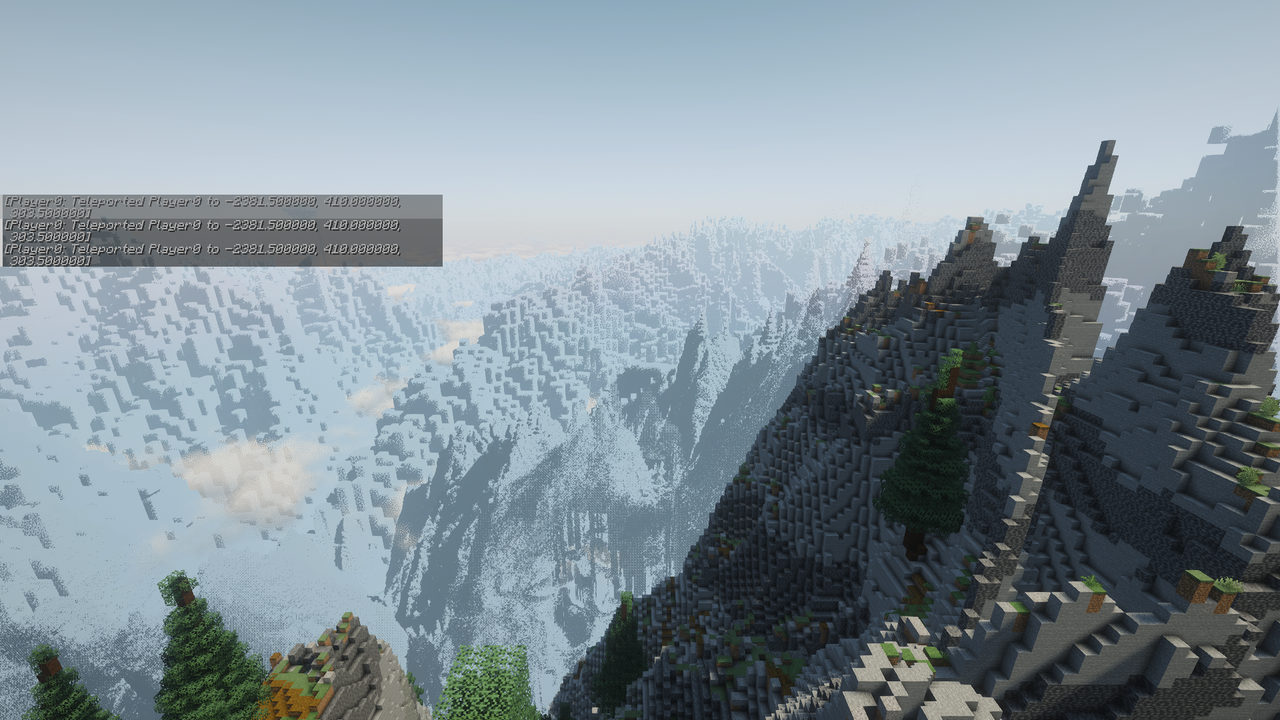
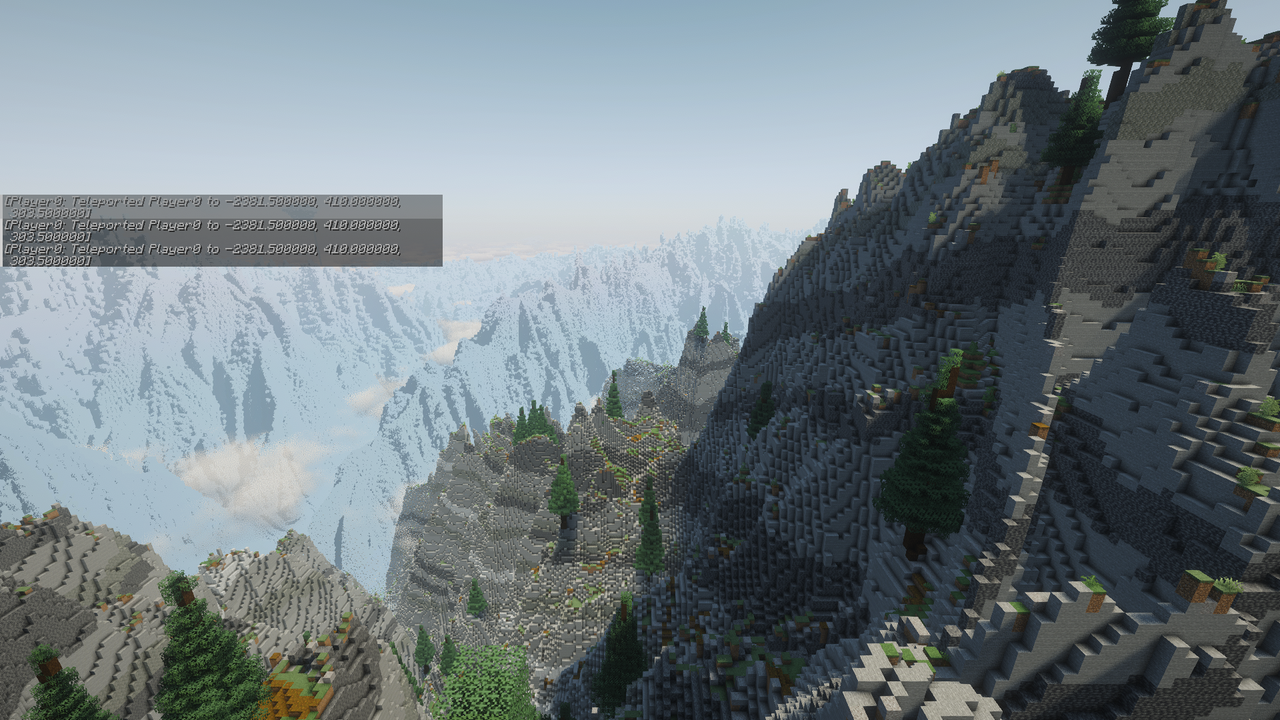
Seed tour: Crown study, basalt stop, glow lichen census; device session 3 results
Claude-Session: https://claude.ai/code/session_01XgAo3bNJTgy4FV4EhYCazH

Changed region(s): [[0.0, 0.0, 1.0, 1.0], [0.9688, 0.4278, 1.0, 0.55]]

diff --git a/mod-fabric/src/gametest/java/dev/veyrath/mod/gametest/SeedTourGameTest.java b/mod-fabric/src/gametest/java/dev/veyrath/mod/gametest/SeedTourGameTest.java
@@ -1,6 +1,9 @@
 package dev.veyrath.mod.gametest;
 
+import dev.veyrath.engine.VeyrathWorld;
 import dev.veyrath.engine.debug.Locator;
+import dev.veyrath.engine.formation.FloatingIslands;
+import dev.veyrath.mod.VeyrathRuntime;
 import net.fabricmc.fabric.api.client.gametest.v1.FabricClientGameTest;
 import net.fabricmc.fabric.api.client.gametest.v1.context.ClientGameTestContext;
 import net.fabricmc.fabric.api.client.gametest.v1.context.TestSingleplayerContext;
@@ -35,7 +38,7 @@ public final class SeedTourGameTest implements FabricClientGameTest {
     private static final Logger LOG = LoggerFactory.getLogger("VEYRATH tour");
     private static final ResourceKey<net.minecraft.world.level.levelgen.presets.WorldPreset> PRESET =
             ResourceKey.create(Registries.WORLD_PRESET, Identifier.fromNamespaceAndPath("veyrath", "veyrath"));
-    private static final List<String> TARGETS = List.of("summit", "rift", "rift_rim", "crown", "throne", "aethercrown", "elderbough", "cinderwake", "waterfall", "elder_tree", "arch", "caldera", "window", "fault", "crown_falls", "spires");
+    private static final List<String> TARGETS = List.of("summit", "rift", "rift_rim", "crown", "throne", "aethercrown", "elderbough", "cinderwake", "waterfall", "elder_tree", "arch", "caldera", "window", "fault", "crown_falls", "spires", "basalt");
     /** Biomes without a locator target, visited via the nearest matching biome cell. */
     private static final List<String> BIOME_STOPS = List.of("veyrath:mossdeep_hollows", "veyrath:ashen_wastes");
     /** Ticks to let chunks around a teleport target generate and render. */
@@ -75,7 +78,10 @@ public final class SeedTourGameTest implements FabricClientGameTest {
             sp.getServer().runCommand("execute as @p at @p run veyrath info");
             sp.getServer().runCommand("gamerule advance_time false");
             sp.getServer().runCommand("time set noon");
-            for (String target : TARGETS) {
+            String only = System.getProperty("veyrath.tourTargets", "");
+            List<String> targets = only.isBlank() ? TARGETS : List.of(only.split(","));
+            for (String target : targets) {
+                if (target.equals("none")) continue;
                 if (!Locator.targets().contains(target)) continue;
                 long tt = System.nanoTime();
                 sp.getServer().runCommand("execute as @p at @p run veyrath tp " + target);
@@ -83,7 +89,8 @@ public final class SeedTourGameTest implements FabricClientGameTest {
                 LOG.info("seed {}: target {} settled after {} ms", seed, target, (System.nanoTime() - tt) / 1_000_000);
                 vista(context, sp, seed, target, setup);
             }
-            for (String biome : BIOME_STOPS) {
+            crownStudy(context, sp, seed, setup);
+            for (String biome : only.isBlank() ? BIOME_STOPS : List.<String>of()) {
                 if (!toBiome(sp, seed, biome)) continue;
                 context.waitTicks(SETTLE_TICKS);
                 vista(context, sp, seed, biome.substring(biome.indexOf(':') + 1), setup);
@@ -135,6 +142,74 @@ public final class SeedTourGameTest implements FabricClientGameTest {
         }
     }
 
+    /**
+     * The Crown of Aether up close: the Veil (its widest waterfall) from 160 blocks out, the plunge
+     * pool looking up, and the underside from the ground right below and from 600 blocks away
+     * (Distant Horizons range), at noon and at midnight.
+     */
+    private static void crownStudy(ClientGameTestContext context, TestSingleplayerContext sp, String seed, String setup) {
+        int[] v = sp.getServer().computeOnServer(server -> {
+            VeyrathWorld world = VeyrathRuntime.world();
+            VeyrathWorld.Realm realm = world.realmAt(world.spawnEngineX(), world.spawnEngineZ());
+            FloatingIslands.Island crown = realm.islands().crown();
+            if (crown == null) return null;
+            var curtains = realm.islands().curtains(crown);
+            if (curtains.isEmpty()) return null;
+            var strips = curtains.get(0).strips();
+            FloatingIslands.Fall f = strips.get(strips.size() / 2);
+            ServerLevel level = server.overworld();
+            int ox = world.originX(), oz = world.originZ();
+            int fx = f.fallX() - ox, fz = f.fallZ() - oz, cx = (int) crown.x() - ox, cz = (int) crown.z() - oz;
+            level.getChunk(fx >> 4, fz >> 4);
+            level.getChunk(cx >> 4, cz >> 4);
+            int bottom = (int) (crown.y() - crown.depth());
+            // Heightmaps stop at the island or the falling water, so scan down from under the island.
+            int pool = groundBelow(level, fx + 14 * (f.fallX() - f.lipX()), fz + 14 * (f.fallZ() - f.lipZ()), bottom - 2);
+            int below = groundBelow(level, cx + (int) crown.radius() / 2, cz, bottom - 2);
+            return new int[] {fx, fz, f.fallX() - f.lipX(), f.fallZ() - f.lipZ(), f.sourceY(), pool, cx, cz,
+                    bottom, (int) crown.radius(), below};
+        });
+        if (v == null) {
+            LOG.info("seed {}: no Crown curtain in the spawn realm", seed);
+            return;
+        }
+        int fx = v[0], fz = v[1], dx = v[2], dz = v[3], source = v[4], pool = v[5], cx = v[6], cz = v[7], bottom = v[8], radius = v[9];
+        LOG.info("seed {}: Veil at {} {} from y{} to ground/pool beside it y{} ({} blocks); Crown centre {} {}, underside about y{}, radius {}",
+                seed, fx, fz, source, pool, source - pool, cx, cz, bottom, radius);
+        sp.getServer().runCommand("time set noon");
+        look(context, sp, fx + 160 * dx, pool + 30, fz + 160 * dz, fx, (source + pool) / 2, fz);
+        shot(context, seed + "_crown_falls_veil", setup);
+        look(context, sp, fx + 14 * dx, pool + 2, fz + 14 * dz, fx, source, fz);
+        shot(context, seed + "_crown_falls_pool_up", setup);
+        // Ground below the Crown, a quarter radius in from the rim, looking up at the underside.
+        int ux = cx + radius / 2, uy = v[10];
+        look(context, sp, ux, uy + 3, cz, cx, bottom, cz);
+        shot(context, seed + "_crown_underside_near", setup);
+        census(sp, seed, "crown_underside");
+        sp.getServer().runCommand("execute as @p at @p run tp @s ~ ~ ~ 0 20");
+        context.waitTicks(VIEW_TICKS);
+        shot(context, seed + "_crown_ground_below", setup);
+        sp.getServer().runCommand("time set midnight");
+        look(context, sp, ux, uy + 3, cz, cx, bottom, cz);
+        shot(context, seed + "_crown_underside_midnight", setup);
+        sp.getServer().runCommand("time set noon");
+        look(context, sp, cx + 600, uy + 40, cz, cx, bottom, cz);
+        shot(context, seed + "_crown_underside_far", setup);
+    }
+
+    /** First y below {@code fromY} whose block is not air: the ground or water surface under an island. */
+    private static int groundBelow(ServerLevel level, int x, int z, int fromY) {
+        level.getChunk(x >> 4, z >> 4);
+        BlockPos.MutableBlockPos pos = new BlockPos.MutableBlockPos(x, fromY, z);
+        while (pos.getY() > level.getMinY() && level.getBlockState(pos).isAir()) pos.move(0, -1, 0);
+        return pos.getY() + 1;
+    }
+
+    private static void look(ClientGameTestContext context, TestSingleplayerContext sp, int x, int y, int z, int tx, int ty, int tz) {
+        sp.getServer().runCommand("execute as @p run tp @s " + x + " " + y + " " + z + " facing " + tx + " " + ty + " " + tz);
+        context.waitTicks(SETTLE_TICKS);
+    }
+
     /** Teleports the player to the surface of the nearest cell of {@code biome}; false if none within 6 km. */
     private static boolean toBiome(TestSingleplayerContext sp, String seed, String biome) {
         BlockPos found = sp.getServer().computeOnServer(server -> {
@@ -162,7 +237,7 @@ public final class SeedTourGameTest implements FabricClientGameTest {
             ServerPlayer player = server.getPlayerList().getPlayers().get(0);
             ServerLevel level = (ServerLevel) player.level();
             BlockPos c = player.blockPosition();
-            int grass = 0, flowers = 0, vines = 0, roots = 0, falling = 0, loaded = 0;
+            int grass = 0, flowers = 0, vines = 0, roots = 0, falling = 0, lichen = 0, loaded = 0;
             BlockPos.MutableBlockPos pos = new BlockPos.MutableBlockPos();
             for (int x = c.getX() - 32; x < c.getX() + 32; x++) {
                 for (int z = c.getZ() - 32; z < c.getZ() + 32; z++) {
@@ -178,12 +253,13 @@ public final class SeedTourGameTest implements FabricClientGameTest {
                         else if (st.is(BlockTags.SMALL_FLOWERS)) flowers++;
                         else if (st.is(Blocks.CAVE_VINES) || st.is(Blocks.CAVE_VINES_PLANT)) vines++;
                         else if (st.is(Blocks.HANGING_ROOTS)) roots++;
+                        else if (st.is(Blocks.GLOW_LICHEN)) lichen++;
                         else if (st.is(Blocks.WATER) && st.getValue(LiquidBlock.LEVEL) == 8) falling++;
                     }
                 }
             }
-            return String.format("columns %d short_grass %d flowers %d cave_vines %d hanging_roots %d falling_water %d",
-                    loaded, grass, flowers, vines, roots, falling);
+            return String.format("columns %d short_grass %d flowers %d cave_vines %d hanging_roots %d glow_lichen %d falling_water %d",
+                    loaded, grass, flowers, vines, roots, lichen, falling);
         });
         LOG.info("seed {}: {} census {}", seed, target, counts);
     }

diff --git a/docs/CHAPTER_STATUS.md b/docs/CHAPTER_STATUS.md
@@ -243,3 +243,37 @@ Falling water 32 at the seed 1 waterfall. No Ashen Wastes cell within 6 km of se
 - None of the Cinderwake waterfall views frames the fall itself.
 - Mossdeep spores and Cinderwake ash are faint white dots; ash could read as light snow at a
   glance.
+
+### Device session 3 (2026-11-03, `robbs-strix`, build 5b92c58 plus the tour changes)
+
+Mod compiled with no fixes (glow lichen materials, lit overhangs in the LOD generator,
+Cinderwake `minecraft:ash` at 0.012). Datagen changed only the cache hashes of the four Cinderwake
+biomes. Engine tests pass. The seed tour now includes `basalt` and a Crown study (Veil from
+160 blocks out, plunge pool looking up, underside from the ground at noon and at midnight, and
+from 600 blocks). It also takes `-Pveyrath.tourTargets=a,b` (or `none`).
+
+**Seen in game (seeds 1 and 2)**
+- Veil: one straight curtain about 20 blocks wide falls from a notch in the Crown rim, y430 to
+  ground y96 (seed 1, 334 blocks) and y434 to y87 (seed 2, 347 blocks)
+  (`seed1_crown_falls_veil_*.png`, `seed1_crown_falls_pool_up_*.png`).
+- Crown underside: no longer black. Hanging roots and glow-berry vines up close, with a faint glow
+  at midnight. Under the Crown (64x64 columns): glow lichen 1227 / 1285, cave vines
+  1208 / 1256, hanging roots 172 / 159 (seed 1 / 2). Seen far away through DH, the underside
+  shows its shape but looks pale and partly see-through with shaders on.
+- Spires: banded hoodoo columns with pale caps on a mound (`seed1_spires_e_*.png`).
+- Basalt: a dark basalt stack with a large basalt arch beside it and blocky column rubble
+  (`seed1_basalt_e_*.png`).
+- Cinderwake: dark ash flecks, no white snow-like dots.
+
+**FPS** (10 s averages, full pack, 24 chunks, 1920x1080 window)
+- Shaders off: 225–238 at all stops of seeds 1 and 2, except seed 1 basalt at 72 (53–136).
+- Complementary Unbound r5.9.3, default settings: seed 1 72–207 (Elderbough 72, elder_tree
+  114, crown 134), seed 2 99–221.
+
+**Pale far terrain with shaders.** Complementary options found: `ATM_FOG_MULT` (default 0.95),
+`ATM_FOG_DISTANCE` (100), `ATM_FOG_ALTITUDE` (63), `BORDER_FOG`. DH fog in
+`DistantHorizons.toml`: `enableDhFog = true`, `farFogStart 0.4`, `farFogDensity 2.5`,
+`EXPONENTIAL_SQUARED`, colour from world fog. Tried `ATM_FOG_MULT=0.50` with
+`ATM_FOG_DISTANCE=300`, then that plus `enableDhFog=false`. Neither made far mountains clearly
+more readable (`seed1_aethercrown_e_shaders*.png`), so no new defaults were shipped. The cause is
+still open.
